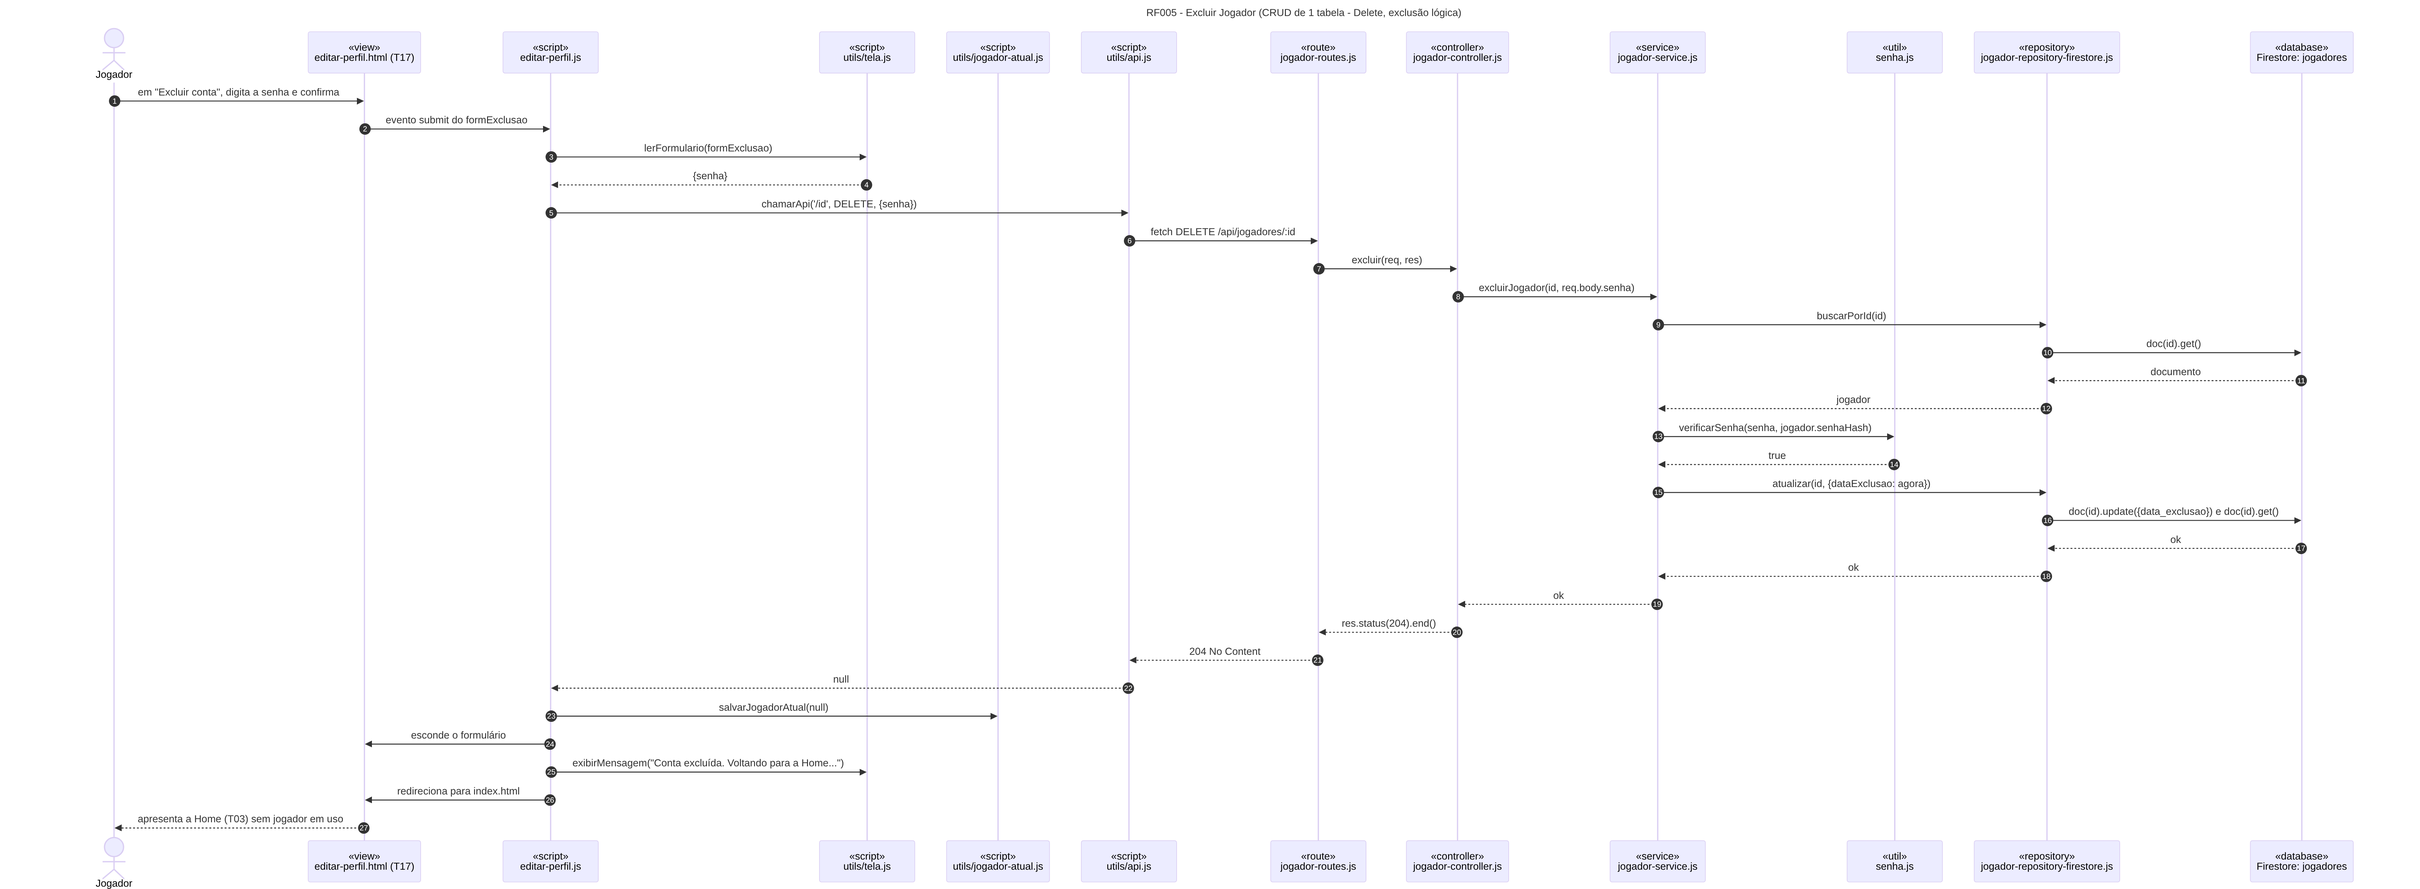
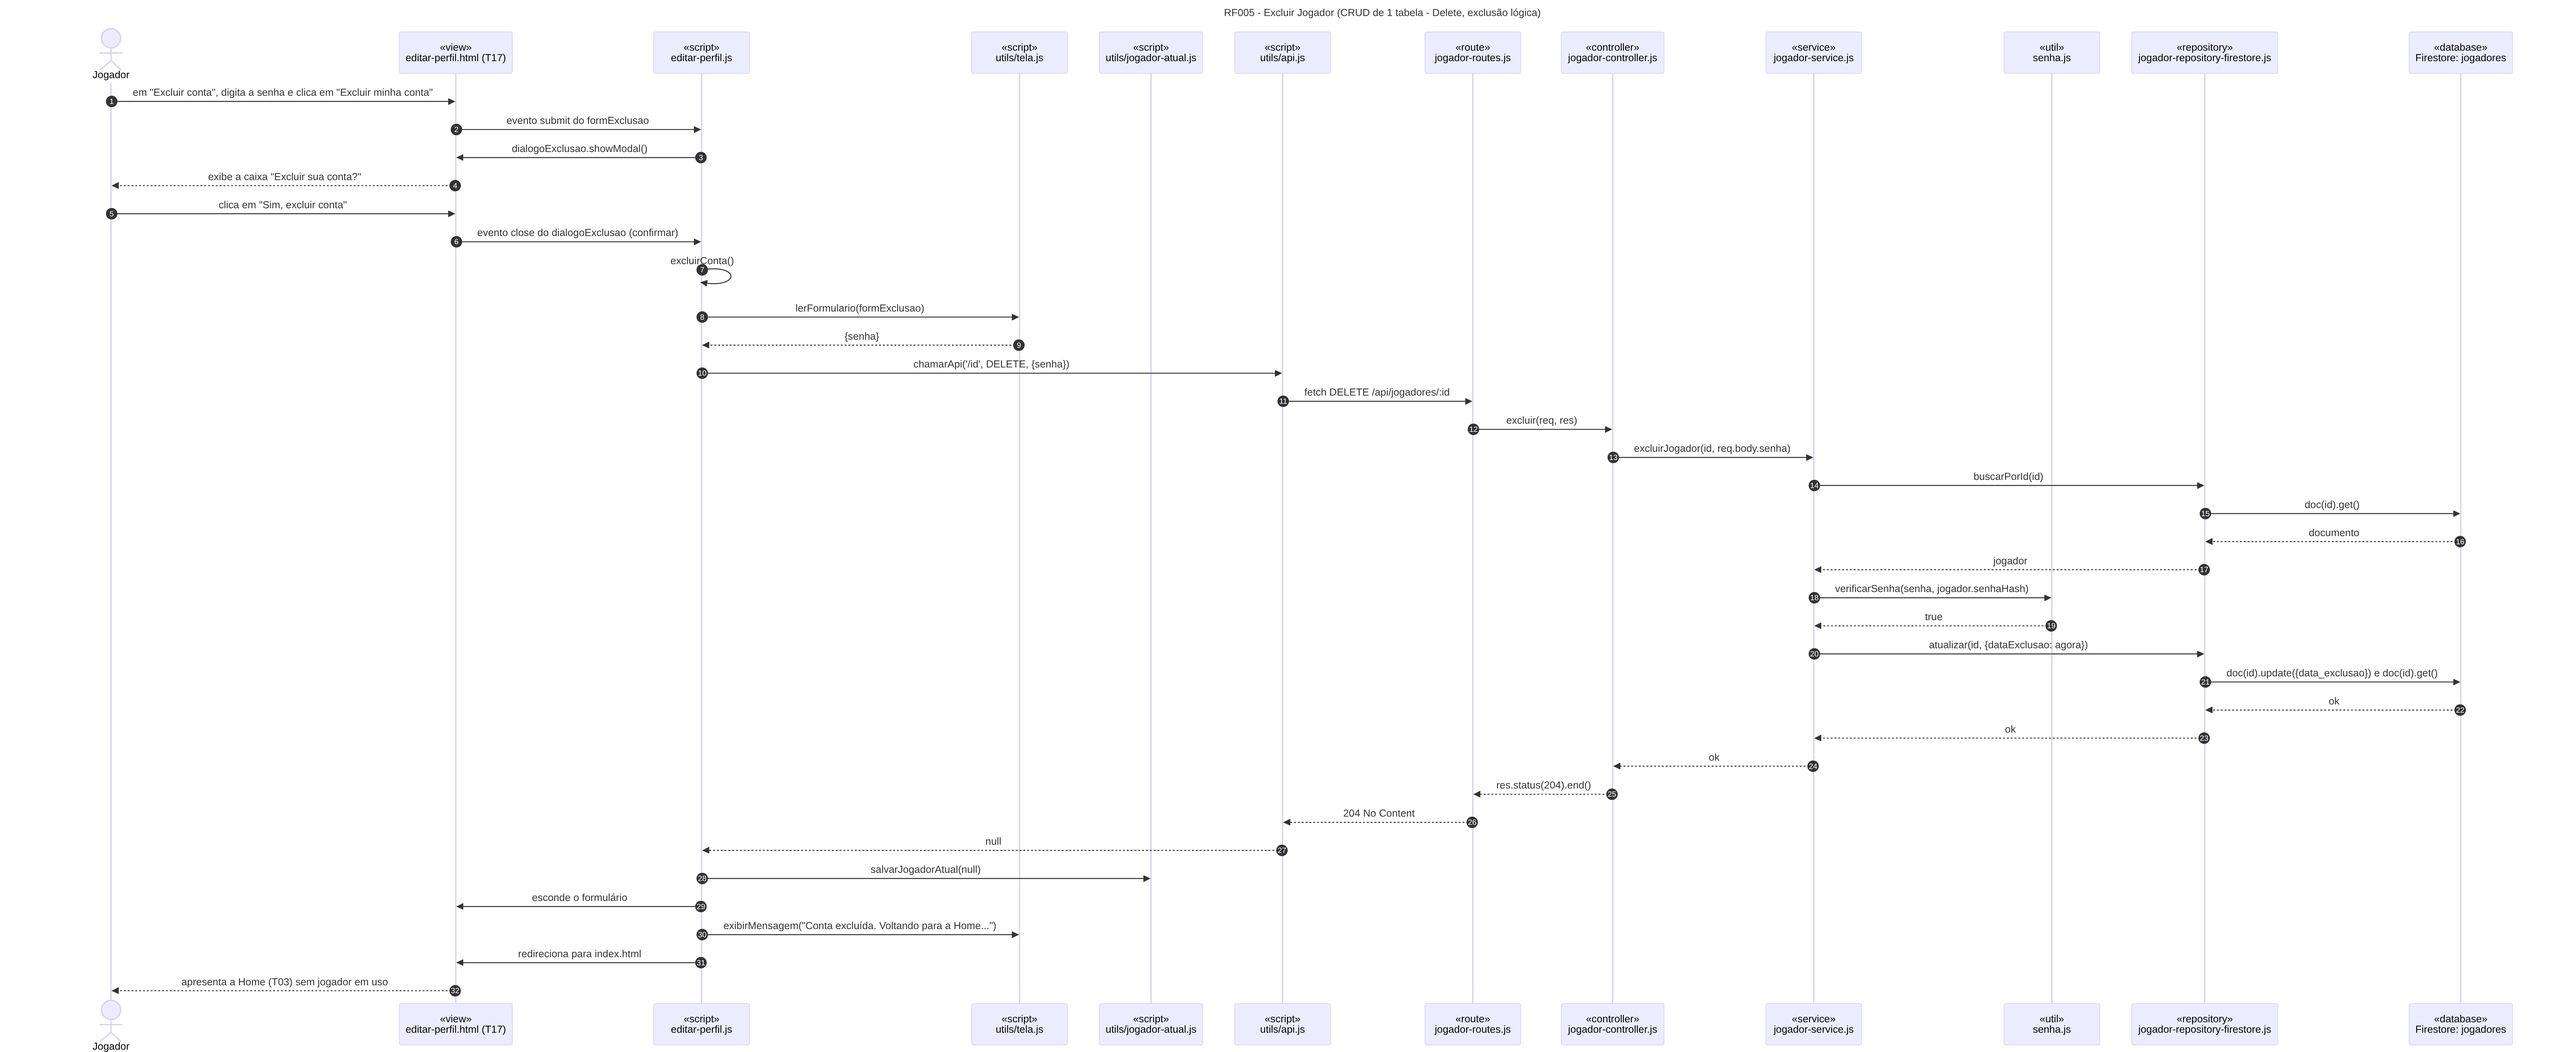
docs(diagramas): mostra a confirmação ao excluir a conta
Excluir Jogador passa pela caixa "Excluir sua conta?" antes de chamar a
API, e Cadastrar Jogador busca o e-mail só entre contas não excluídas.

diff --git a/docs/diagramas/README.md b/docs/diagramas/README.md
@@ -302,7 +302,7 @@ sequenceDiagram
     DB-->>RP: nenhum documento
     RP-->>SV: null
     SV->>RP: buscarPorEmail(email)
-    RP->>DB: where("email", "==", email).limit(1).get()
+    RP->>DB: where("email", "==", email).where("data_exclusao", "==", null).limit(1).get()
     DB-->>RP: nenhum documento
     RP-->>SV: null
     SV->>H: gerarHashSenha(senha)
@@ -481,8 +481,13 @@ sequenceDiagram
     participant RP as «repository»<br/>jogador-repository-firestore.js
     participant DB as «database»<br/>Firestore: jogadores
 
-    U->>T: em "Excluir conta", digita a senha e confirma
+    U->>T: em "Excluir conta", digita a senha e clica em "Excluir minha conta"
     T->>S: evento submit do formExclusao
+    S->>T: dialogoExclusao.showModal()
+    T-->>U: exibe a caixa "Excluir sua conta?"
+    U->>T: clica em "Sim, excluir conta"
+    T->>S: evento close do dialogoExclusao (confirmar)
+    S->>S: excluirConta()
     S->>TL: lerFormulario(formExclusao)
     TL-->>S: {senha}
     S->>A: chamarApi('/id', DELETE, {senha})
